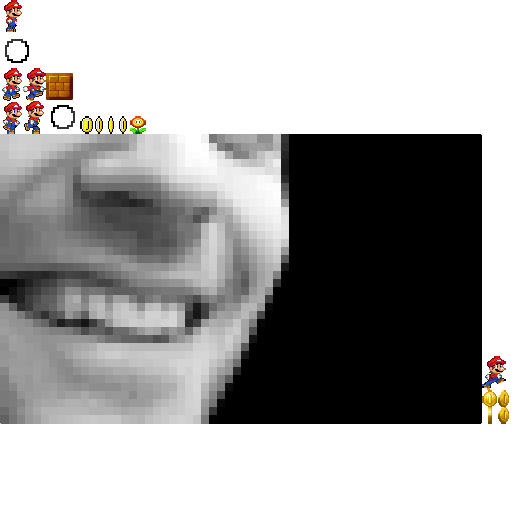
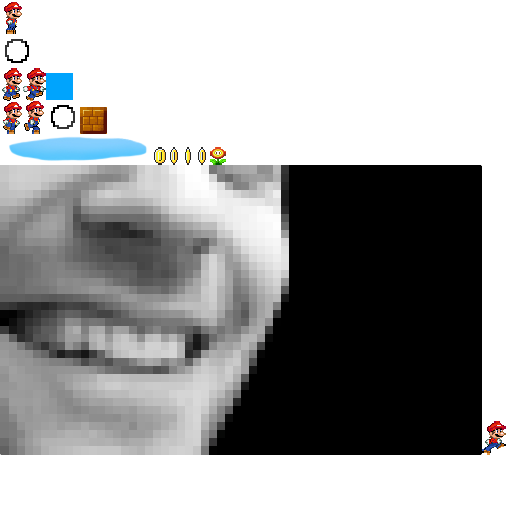
Add sky, clouds, camera scrolling, reborn, updated graphics

Changed region(s): [[0.0, 0.125, 1.0, 0.9062], [0.0, 0.0, 0.0625, 0.0625]]

diff --git a/src/nl/endroid/app/platform/screen/GameScreen.java b/src/nl/endroid/app/platform/screen/GameScreen.java
@@ -1,5 +1,7 @@
 package nl.endroid.app.platform.screen;
 
+import java.util.Random;
+
 import com.badlogic.gdx.Gdx;
 import com.badlogic.gdx.files.FileHandle;
 import com.badlogic.gdx.math.Vector2;
@@ -9,10 +11,13 @@ import com.badlogic.gdx.physics.box2d.ContactListener;
 import com.badlogic.gdx.physics.box2d.Manifold;
 import com.badlogic.gdx.scenes.scene2d.ui.Label;
 import com.badlogic.gdx.scenes.scene2d.utils.Align;
+import com.badlogic.gdx.utils.Array;
 
+import nl.endroid.app.platform.entity.Cloud;
 import nl.endroid.app.platform.entity.Coin;
 import nl.endroid.app.platform.entity.Flower;
 import nl.endroid.app.platform.entity.Hero;
+import nl.endroid.app.platform.entity.Sky;
 import nl.endroid.app.platform.entity.Stone;
 import nl.endroid.framework.AssetManager;
 import nl.endroid.framework.Entity;
@@ -23,7 +28,7 @@ public class GameScreen extends BaseGameScreen
 {
 	protected Hero hero;
 	
-	protected float blockSize = 25;
+	protected Integer blockSize = 25;
 	
 	protected Integer score;
 	protected Label scoreLabel;
@@ -41,8 +46,9 @@ public class GameScreen extends BaseGameScreen
 		
 		AssetManager.createSound("coin", "coin.wav");
 		AssetManager.createSound("jump", "jump.wav");
+		AssetManager.createSound("die", "die.wav");
 		
-		world.setGravity(new Vector2(0.0f, -20.0f));
+		world.setGravity(new Vector2(0.0f, -40.0f));
 		
 		createLevel("001");
 		
@@ -88,8 +94,7 @@ public class GameScreen extends BaseGameScreen
 		
 		score = 0;
 		
-		scoreLabel = application.getLabel(score.toString(), "black");
-		scoreLabel.setX(width - 60);
+		scoreLabel = application.getLabel(score.toString(), "white");
 		scoreLabel.setY(height - scoreLabel.getHeight() - 10);
 		scoreLabel.setWidth(50);
 		scoreLabel.setAlignment(Align.right);
@@ -104,12 +109,16 @@ public class GameScreen extends BaseGameScreen
 		String level = handle.readString();
 		String[] rows = level.split("\n");
 		int currentY = 0;
+		int maxLength = 0;
+		Array<Entity> entities = new Array<Entity>();
 		for (int index = rows.length - 1; index >= 0; index--) {
-			int currentX = 0;
-			String row = rows[index];
-			for (int charIndex = 0; charIndex < row.length(); charIndex++) {
+			int currentX = -blockSize;
+			rows[index] = "B " + rows[index] + " B";
+			String[] row = rows[index].split(" ");
+			maxLength = Math.max(maxLength, row.length);
+			for (int columnIndex = 0; columnIndex < row.length; columnIndex++) {
 				Entity entity = null;
-				switch (row.charAt(charIndex)) {
+				switch (row[columnIndex].charAt(0)) {
 					case 'H':
 						hero = new Hero();
 						entity = hero;
@@ -126,14 +135,31 @@ public class GameScreen extends BaseGameScreen
 					default:
 						break;
 				}
+				Sky sky = new Sky();
+				stage.addActor(sky);
+				sky.setPosition(currentX, currentY);
 				if (entity != null) {
 					entity.createBody(world);
-					stage.addActor(entity);
 					entity.setPosition(currentX, currentY - blockSize / 2 + entity.getHeight() / 2);
+					entities.add(entity);
 				}
 				currentX += blockSize;
 			}
 			currentY += blockSize;
+		}
+		
+		// Add clouds
+		Random random = new Random();
+		for (int index = 0; index < 10; index++) {
+			Cloud cloud = new Cloud();
+			stage.addActor(cloud);;
+			cloud.setMax(maxLength * blockSize);
+			cloud.setPosition(random.nextInt(maxLength * blockSize), random.nextInt(rows.length * blockSize));
+		}
+		
+		// Add actors
+		for (Entity entity : entities) {
+			stage.addActor(entity);
 		}
 	}
 	
@@ -142,24 +168,47 @@ public class GameScreen extends BaseGameScreen
 	{
 		super.update(delta);
 		
-		if (Math.abs(Gdx.input.getAccelerometerY()) > 0.5) {
-			Vector2 velocity = hero.getBody().getLinearVelocity();
-			velocity.x = Gdx.input.getAccelerometerY() * 2;
-			hero.setDirection(velocity.x >= 0 ? Hero.DIRECTION_RIGHT : Hero.DIRECTION_LEFT);
-			hero.getBody().setLinearVelocity(velocity);
+		float speed = Gdx.input.getAccelerometerY();
+		
+		if (Math.abs(speed) < 0.2) {
+			speed = 0;
 		}
 		
-		if (hero.getY() < - blockSize) {
+		Vector2 velocity = hero.getBody().getLinearVelocity();
+		velocity.x = speed * 2;
+		if (velocity.x > 0.2) {
+			hero.setDirection(Hero.DIRECTION_RIGHT);
+		} else if (velocity.x < -0.2) {
+			hero.setDirection(Hero.DIRECTION_LEFT);
+		}
+		hero.getBody().setLinearVelocity(velocity);
+		
+		if (hero.getY() < - blockSize * 2) {
+			AssetManager.playSound("die");
 			dispose();
 			show();
 		}
+		
+		float cameraX = hero.getX();
+		
+		if (cameraX > stage.getWidth() + width) {
+			cameraX = stage.getWidth() + width;
+		}
+		if (cameraX < width / 2) {
+			cameraX = width / 2;
+		}
+		
+		scoreLabel.setX(cameraX + width / 2 - 60);
+		
+		camera.position.set(cameraX, camera.position.y, 0);
+		camera.update();
 	}
 	
 	@Override
 	public boolean touchDown(int x, int y, int pointer, int button)
 	{
 		if (hero.getState() != Hero.STATE_JUMPING) {
-			hero.getBody().applyForce(0.0f, 50f, Utils.pixelsToMeters(hero.getX()), Utils.pixelsToMeters(hero.getY()));
+			hero.getBody().applyForce(0.0f, 90f, Utils.pixelsToMeters(hero.getX()), Utils.pixelsToMeters(hero.getY()));
 			hero.setState(Hero.STATE_JUMPING);
 			AssetManager.playSound("jump");
 		}

diff --git a/src/nl/endroid/app/platform/entity/Cloud.java b/src/nl/endroid/app/platform/entity/Cloud.java
@@ -1,0 +1,46 @@
+package nl.endroid.app.platform.entity;
+
+import java.util.Random;
+
+import nl.endroid.framework.Animation;
+import nl.endroid.framework.Entity;
+import nl.endroid.framework.Utils;
+
+public class Cloud extends Entity
+{
+	protected float max;
+	protected float speed;
+	
+	@Override
+	protected void configure()
+	{
+		Random random = new Random();
+		
+		speed = random.nextFloat();
+		
+		addAnimation(new Animation("cloud"));
+		
+		if (random.nextBoolean()) {
+			setRotation(180);
+		}
+	}
+	
+	@Override
+	public void act(float delta)
+	{
+		this.setX(this.getX() + speed * 3 - 1.5f);
+		
+		if (this.getX() > max + getWidth()) {
+			this.setX(-getWidth());;
+		}
+		
+		if (this.getX() < -getWidth()) {
+			this.setX(max + getWidth());
+		}
+	}
+	
+	public void setMax(float max)
+	{
+		this.max = max;
+	}
+}

diff --git a/src/nl/endroid/app/platform/entity/Hero.java b/src/nl/endroid/app/platform/entity/Hero.java
@@ -23,6 +23,8 @@ public class Hero extends Entity
 	protected Float currentX = null;
 	protected Float currentY = null;
 	
+	protected boolean jumpTopReached = false;
+	
 	@Override
 	protected void configure()
 	{
@@ -73,6 +75,9 @@ public class Hero extends Entity
 		
 		// Move from jumping state to walking state
 		if (state == STATE_JUMPING && getY() < currentY) {
+			jumpTopReached = true;
+		}
+		if (state == STATE_JUMPING && jumpTopReached && getY() >= currentY) {
 			setState(STATE_WALKING);
 		}
 		
@@ -97,6 +102,8 @@ public class Hero extends Entity
 				startAnimation("hero-jump");
 				break;
 		}
+		
+		jumpTopReached = false;
 		
 		this.state = state;
 	}

diff --git a/src/nl/endroid/app/platform/entity/Sky.java b/src/nl/endroid/app/platform/entity/Sky.java
@@ -1,0 +1,13 @@
+package nl.endroid.app.platform.entity;
+
+import nl.endroid.framework.Animation;
+import nl.endroid.framework.Entity;
+
+public class Sky extends Entity
+{
+	@Override
+	protected void configure()
+	{		
+		addAnimation(new Animation("sky"));
+	}
+}

diff --git a/src/nl/endroid/app/platform/entity/Coin.java b/src/nl/endroid/app/platform/entity/Coin.java
@@ -12,6 +12,6 @@ public class Coin extends Entity
 	{
 		bodyType = BodyType.StaticBody;
 		
-		addAnimation(new Animation("coin", 14, 16, 4, 0.2f));
+		addAnimation(new Animation("coin", 14, 16, 4, 0.2f));;
 	}
 }
